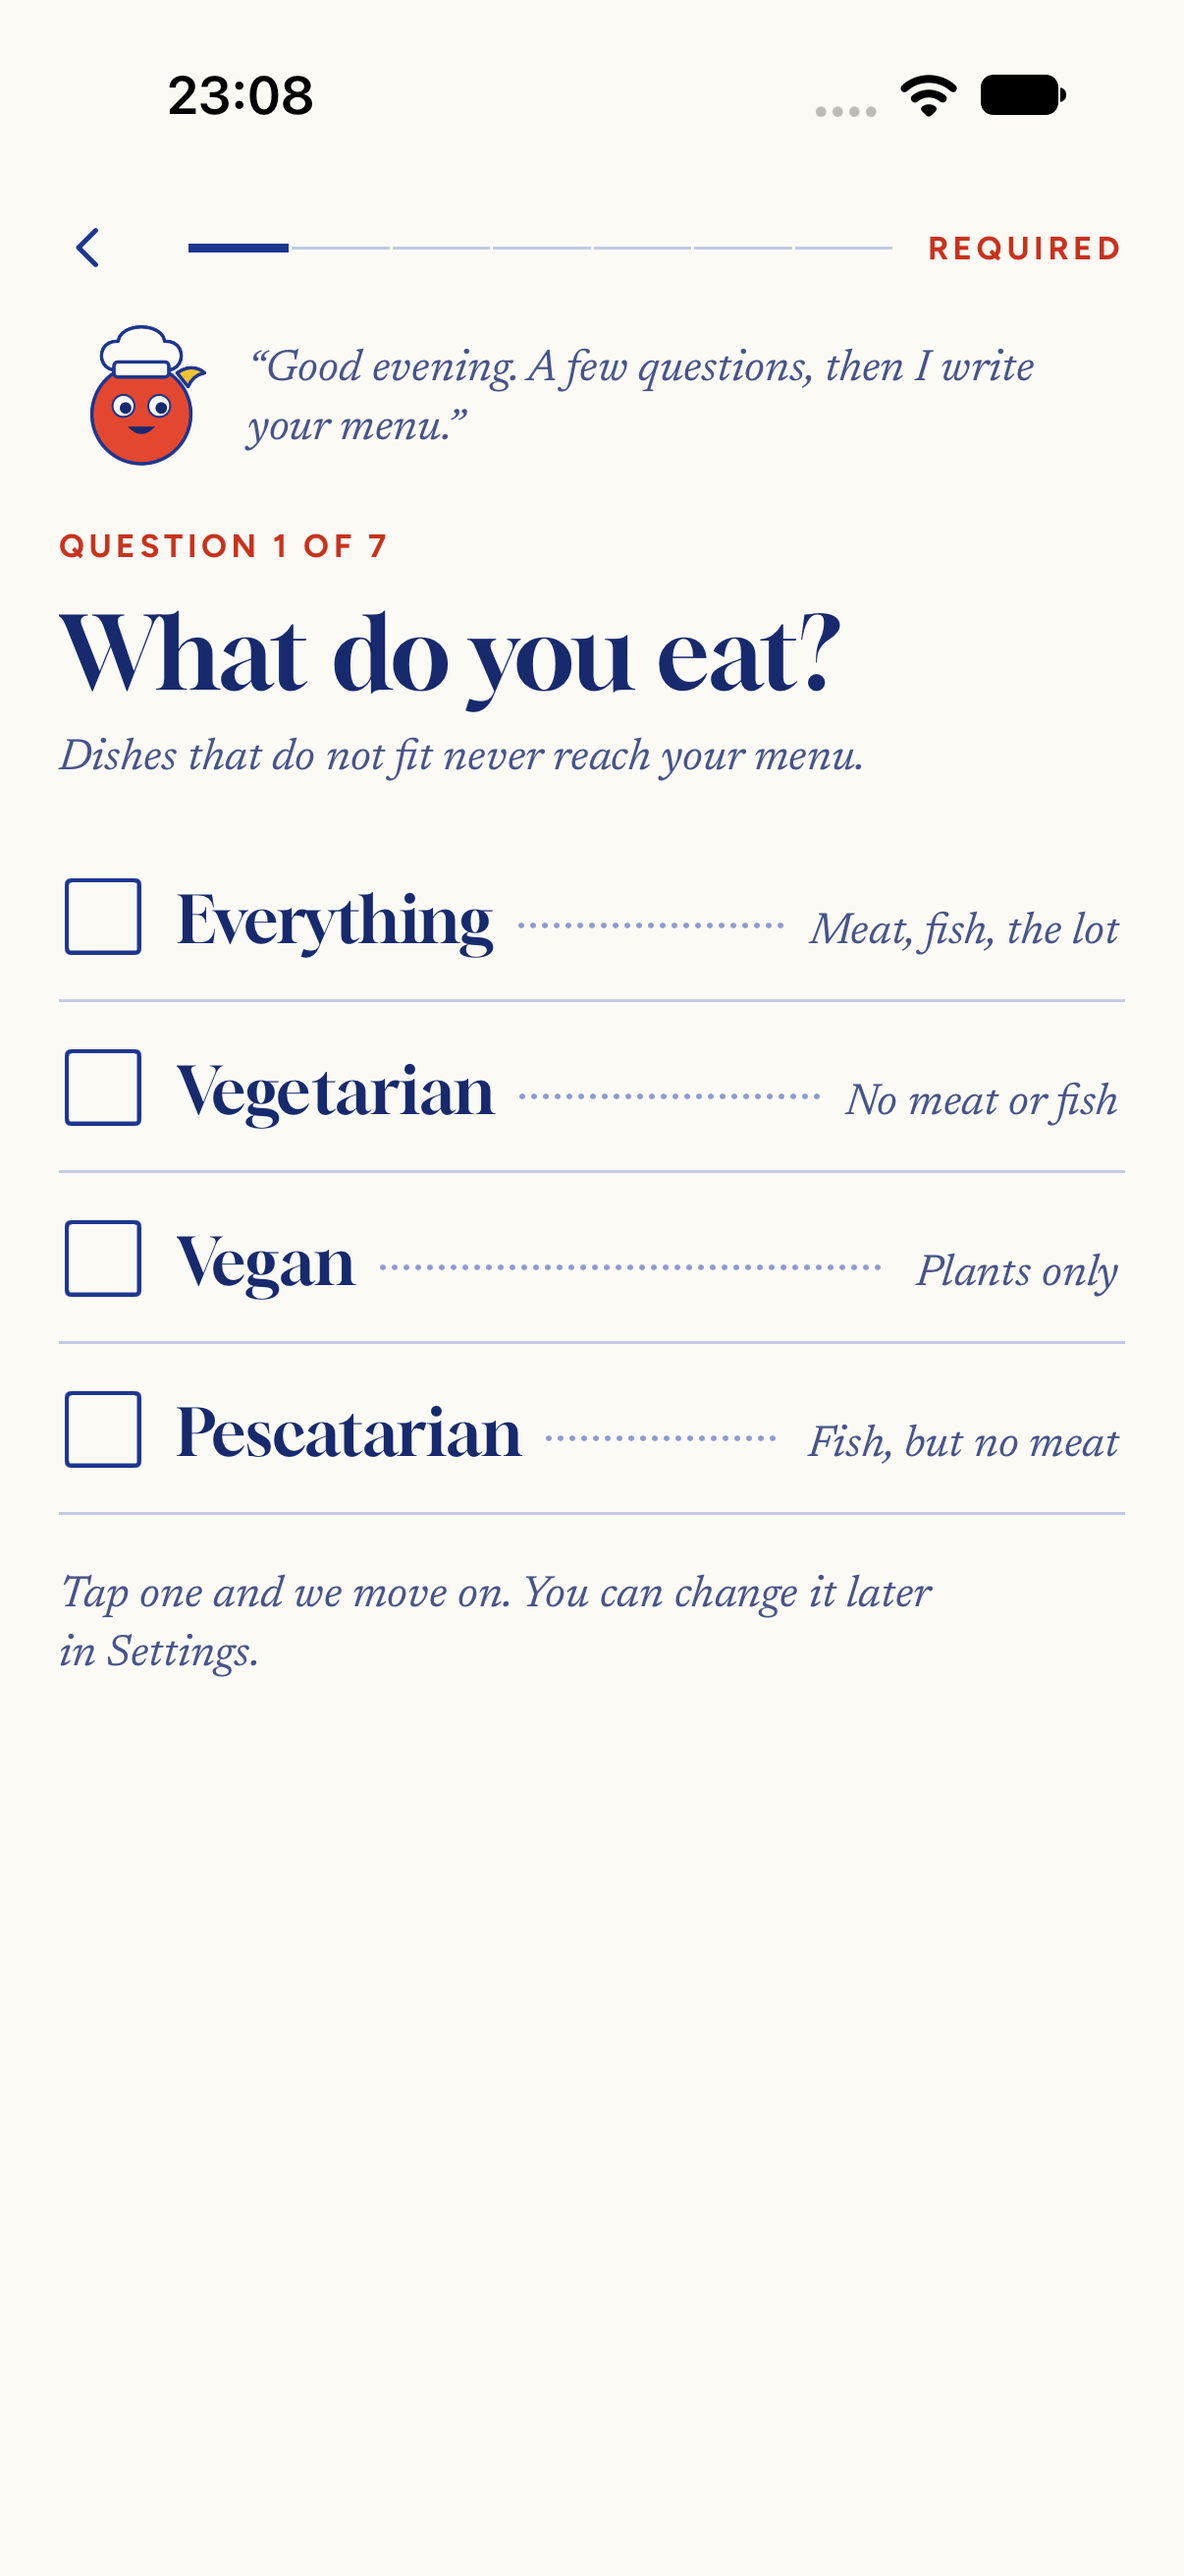
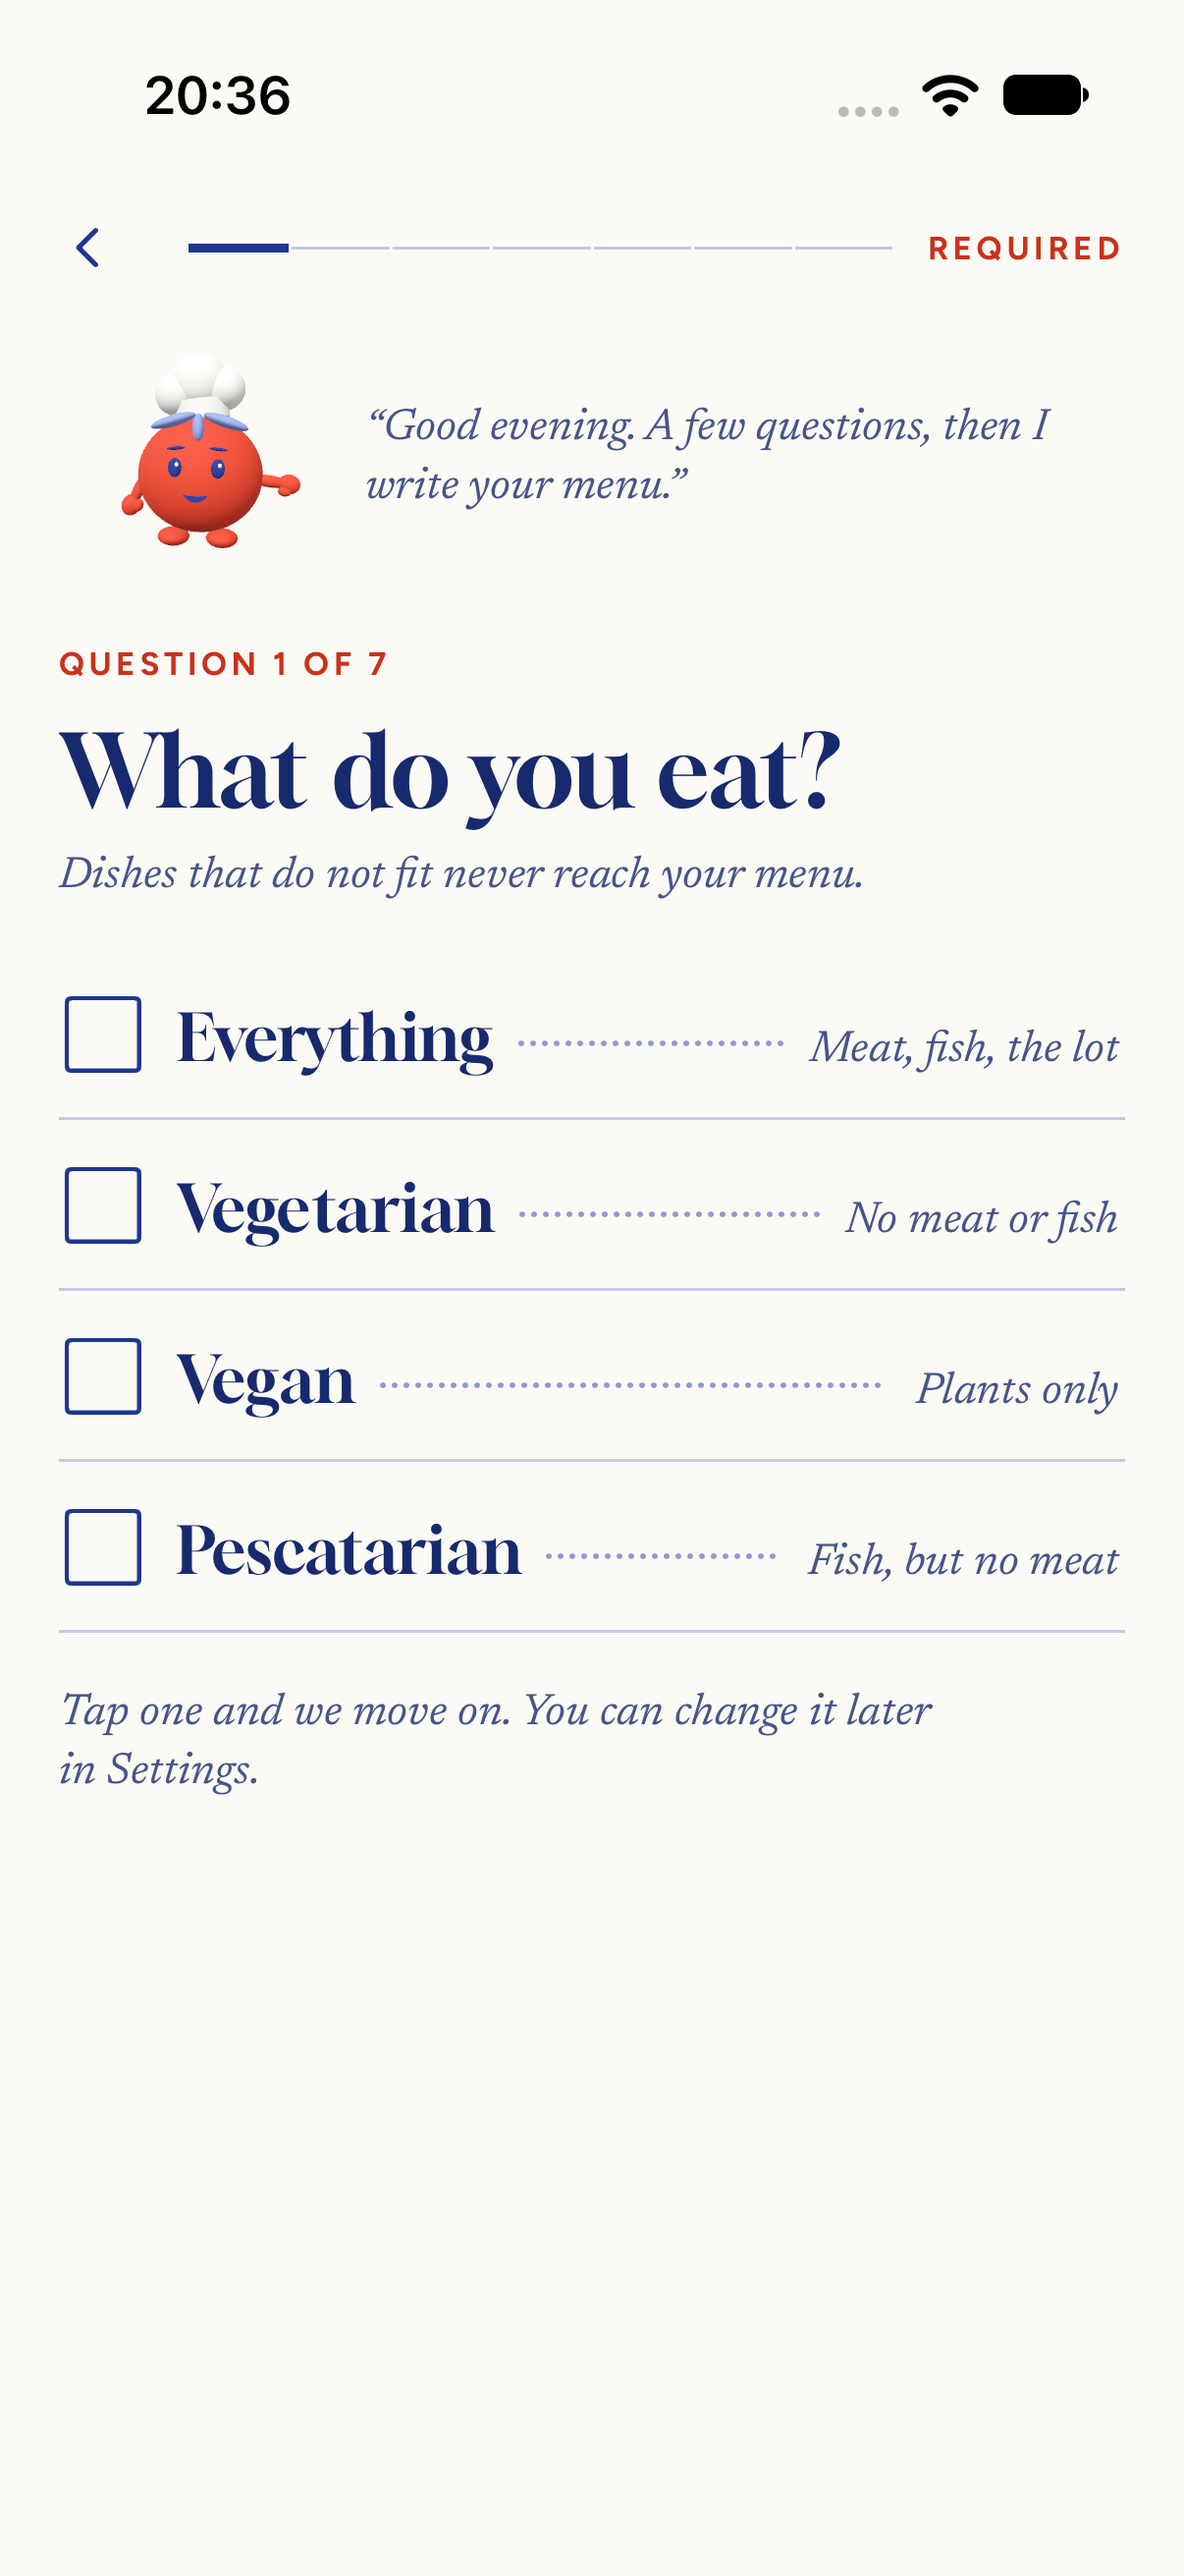
Show the 3D companion in onboarding (#15)
The welcome and the diet greeting drew the flat printed mascot. They now show
the animated companion: idle on the welcome, explaining beside the greeting.

One CompanionHost per flow draws it where a screen's CompanionSlot asks. A
second RealityView created as the first one goes away stayed blank for about
five seconds in the simulator, so the companion is kept alive between screens
instead of being created on every page.

The welcome text now scrolls, centred when it fits, so the larger companion
no longer cuts the title at the largest text size. Screenshots, AGENTS.md and
the companion notes are updated.

diff --git a/Tomi/DesignSystem/Companion/CompanionHost.swift b/Tomi/DesignSystem/Companion/CompanionHost.swift
@@ -1,0 +1,50 @@
+import SwiftUI
+
+/// Draws one companion at the place the current screen asked for, and keeps it alive between screens.
+/// A screen without a slot leaves it invisible instead of tearing it down: RealityKit takes seconds
+/// to show a companion that appears just as the last one goes away.
+struct CompanionHost: View {
+    let placement: CompanionPlacement?
+
+    var body: some View {
+        GeometryReader { proxy in
+            TomiCompanion(state: state)
+                .frame(width: rect(in: proxy).width, height: rect(in: proxy).height)
+                .offset(x: rect(in: proxy).minX, y: rect(in: proxy).minY)
+                .opacity(opacity)
+        }
+        .allowsHitTesting(false)
+    }
+
+    private var state: CompanionState {
+        placement?.state ?? .idle
+    }
+
+    private var opacity: Double {
+        guard placement != nil else { return 0 }
+        return 1
+    }
+
+    private func rect(in proxy: GeometryProxy) -> CGRect {
+        guard let placement else {
+            return CGRect(x: 0, y: 0, width: MascotSize.companionGreeting, height: MascotSize.companionGreeting)
+        }
+        return proxy[placement.bounds]
+    }
+}
+
+#Preview {
+    CompanionHost(placement: nil)
+}
+
+extension View {
+    /// Draws the companion where a `CompanionSlot` inside this view asks, clipped to this view.
+    func companionHost(identifier: String) -> some View {
+        overlayPreferenceValue(CompanionPlacementKey.self) { placement in
+            CompanionHost(placement: placement)
+                .clipped()
+                .accessibilityElement(children: .contain)
+                .accessibilityIdentifier(identifier)
+        }
+    }
+}

diff --git a/TomiUITests/OnboardingUITests.swift b/TomiUITests/OnboardingUITests.swift
@@ -26,4 +26,28 @@ final class OnboardingUITests: XCTestCase {
 
         XCTAssertTrue(app.staticTexts["onboarding-avoid-title"].waitForExistence(timeout: 5))
     }
+
+    @MainActor
+    func testTheWelcomeShowsTheRenderedCompanion() {
+        let app = XCUIApplication.launchedAsNewCook()
+
+        let companion = app.otherElements["onboarding-companion"]
+        XCTAssertTrue(companion.waitForExistence(timeout: 5))
+        XCTAssertTrue(companion.waitForTomato())
+    }
+
+    @MainActor
+    func testTheCompanionStaysAndMovesBesideTheDietGreeting() {
+        let app = XCUIApplication.launchedAsNewCook()
+        let companion = app.otherElements["onboarding-companion"]
+        XCTAssertTrue(companion.waitForTomato())
+        let welcomeSize = companion.frame.width
+
+        app.buttons["onboarding-start"].tap()
+
+        XCTAssertTrue(app.staticTexts["onboarding-diet-title"].waitForExistence(timeout: 5))
+        XCTAssertTrue(companion.waitForTomato())
+        XCTAssertLessThan(companion.frame.width, welcomeSize)
+        XCTAssertLessThan(companion.frame.maxY, app.staticTexts["onboarding-diet-title"].frame.minY)
+    }
 }

diff --git a/Tomi/Onboarding/OnboardingWelcomeText.swift b/Tomi/Onboarding/OnboardingWelcomeText.swift
@@ -1,12 +1,18 @@
 import SwiftUI
 
-/// The mascot, the kicker and the promise on the welcome screen.
+/// The companion, the kicker and the promise on the welcome screen.
 struct OnboardingWelcomeText: View {
     var body: some View {
+        ScrollView {
+            column
+        }
+        .defaultScrollAnchor(.center, for: .alignment)
+        .scrollBounceBehavior(.basedOnSize)
+    }
+
+    private var column: some View {
         VStack(spacing: Spacing.large) {
-            TomiMascot()
-                .frame(width: MascotSize.welcome, height: MascotSize.welcome)
-                .accessibilityHidden(true)
+            CompanionSlot(state: .idle, side: MascotSize.companionWelcome)
             Text(.welcomeKicker)
                 .textStyle(.label)
             Text(.onboardingWelcomeTitle)

diff --git a/Tomi/DesignSystem/Companion/CompanionSlot.swift b/Tomi/DesignSystem/Companion/CompanionSlot.swift
@@ -1,0 +1,22 @@
+import SwiftUI
+
+/// Empty room on a screen where the companion stands. The companion itself is drawn by one
+/// `CompanionHost` above the screens, so it is not created and destroyed on every page.
+struct CompanionSlot: View {
+    let state: CompanionState
+    let side: CGFloat
+
+    var body: some View {
+        Color.clear
+            .frame(width: side, height: side)
+            .anchorPreference(key: CompanionPlacementKey.self, value: .bounds) { bounds in
+                CompanionPlacement(bounds: bounds, state: state)
+            }
+            .accessibilityHidden(true)
+    }
+}
+
+#Preview {
+    CompanionSlot(state: .idle, side: MascotSize.companionWelcome)
+        .background(ColorRole.paper.color)
+}

diff --git a/Tomi/Onboarding/OnboardingFlow.swift b/Tomi/Onboarding/OnboardingFlow.swift
@@ -13,11 +13,9 @@ struct OnboardingFlow: View {
                 OnboardingHeader(completed: model.progressCompleted, back: model.back)
             }
             screen
+                .companionHost(identifier: "onboarding-companion")
             if model.couldNotSave {
-                Text(.onboardingSaveFailed)
-                    .textStyle(.description, color: .stampRed)
-                    .padding(Spacing.screenMargin)
-                    .accessibilityIdentifier("onboarding-save-failed")
+                OnboardingSaveFailed()
             }
         }
         .background(ColorRole.paper.color)

diff --git a/Tomi/DesignSystem/Companion/CompanionPlacement.swift b/Tomi/DesignSystem/Companion/CompanionPlacement.swift
@@ -1,0 +1,18 @@
+import SwiftUI
+
+/// Where a screen wants the companion and what it is doing there.
+struct CompanionPlacement {
+    let bounds: Anchor<CGRect>
+    let state: CompanionState
+}
+
+/// Carries the placement from a screen's `CompanionSlot` up to the `CompanionHost` that draws the companion.
+struct CompanionPlacementKey: PreferenceKey {
+    static var defaultValue: CompanionPlacement? { nil }
+
+    static func reduce(value: inout CompanionPlacement?, nextValue: () -> CompanionPlacement?) {
+        if let next = nextValue() {
+            value = next
+        }
+    }
+}

diff --git a/TomiUITests/XCUIElement+Tomato.swift b/TomiUITests/XCUIElement+Tomato.swift
@@ -1,0 +1,15 @@
+import XCTest
+
+extension XCUIElement {
+    /// Waits until the rendered tomato shows in this element. RealityKit draws its first frame a little
+    /// after the view appears, so a single screenshot straight after a tap proves nothing.
+    func waitForTomato(timeout: TimeInterval = 15) -> Bool {
+        let deadline = Date().addingTimeInterval(timeout)
+        while Date() < deadline {
+            if screenshot().tomatoCoverage > 0.015 {
+                return true
+            }
+        }
+        return false
+    }
+}

diff --git a/Tomi/DesignSystem/MascotSize.swift b/Tomi/DesignSystem/MascotSize.swift
@@ -5,6 +5,11 @@ nonisolated enum MascotSize {
     /// The interactive companion stage in the gallery.
     static let companion: CGFloat = 280
 
+    /// The animated companion on the welcome screen of onboarding.
+    static let companionWelcome: CGFloat = 200
+    /// The animated companion beside a line Tomi says, as on the diet question of onboarding.
+    static let companionGreeting: CGFloat = 96
+
     /// On the welcome screen.
     static let welcome: CGFloat = 164
     /// Beside a line Tomi says, as on the diet question of onboarding.

diff --git a/Tomi/Onboarding/TomiGreeting.swift b/Tomi/Onboarding/TomiGreeting.swift
@@ -6,9 +6,7 @@ struct TomiGreeting: View {
 
     var body: some View {
         HStack(spacing: Spacing.xSmall) {
-            TomiMascot()
-                .frame(width: MascotSize.greeting, height: MascotSize.greeting)
-                .accessibilityHidden(true)
+            CompanionSlot(state: .explaining, side: MascotSize.companionGreeting)
             Text(words)
                 .textStyle(.description)
                 .frame(maxWidth: .infinity, alignment: .leading)

diff --git a/Tomi/Onboarding/OnboardingSaveFailed.swift b/Tomi/Onboarding/OnboardingSaveFailed.swift
@@ -1,0 +1,15 @@
+import SwiftUI
+
+/// Tomi's words when the answers could not be saved.
+struct OnboardingSaveFailed: View {
+    var body: some View {
+        Text(.onboardingSaveFailed)
+            .textStyle(.description, color: .stampRed)
+            .padding(Spacing.screenMargin)
+            .accessibilityIdentifier("onboarding-save-failed")
+    }
+}
+
+#Preview {
+    OnboardingSaveFailed()
+}

diff --git a/Tomi/Onboarding/OnboardingWelcomeView.swift b/Tomi/Onboarding/OnboardingWelcomeView.swift
@@ -6,9 +6,7 @@ struct OnboardingWelcomeView: View {
 
     var body: some View {
         VStack(spacing: Spacing.large) {
-            Spacer()
             OnboardingWelcomeText()
-            Spacer()
             Text(.onboardingWelcomeHint)
                 .textStyle(.description)
             Button(action: start) {

diff --git a/docs/implementation-plan.md b/docs/implementation-plan.md
@@ -19,7 +19,7 @@ A native iPhone app where a cook answers a short onboarding, shows Tomi their fr
 | Everyday AI | Apple Foundation Models on the phone: ingredient spotting, ranking and adapting lessons, Ask Tomi, voice commands. Available in the iOS 27 simulator on the development Mac |
 | Curriculum | Classical French technique and its kitchen words (mirepoix, roux, deglaze, monter au beurre, beurre blanc), without presenting the app as "French cooking". Twelve techniques in four courses (Foundations, Heat control, Sauces, Putting it together), each with levels |
 | Lessons | Written in bulk by a top Claude model into a reviewed library. One file per lesson. Never generated live in version 1 |
-| Tomi and step scenes | Printed mascot and step scenes stay code-drawn in SwiftUI. A separate native RealityKit tomato chef, built from shared geometry with no downloaded model, supplies idle, listening, thinking, explaining and celebrating states for future conversations (#94). Callers supply the state; the companion opens no microphone or AI session |
+| Tomi and step scenes | Printed mascot and step scenes stay code-drawn in SwiftUI. A separate native RealityKit tomato chef, built from shared geometry with no downloaded model, supplies idle, listening, thinking, explaining and celebrating states for conversations and for onboarding (#94, #15). Callers supply the state; the companion opens no microphone or AI session |
 | Onboarding | Nine screens: welcome, diet, things to avoid, cuisines, kitchen, experience and weekly goal, table and units, camera primer, done. Notifications are asked at the first timer, the cupboard at the first scan |
 | Cuisines | Love, happy to try, or never, from day one. "Never" hides those dishes, including alternatives. Cuisines never gate skills. More arrive later as "guest menus" |
 | Pantry | Saved cupboard staples, switchable per evening, plus typing anything the photo missed |
@@ -86,6 +86,8 @@ The debug gallery also opens the animated 3D companion (#94). `TomiCompanion` ac
 `CompanionState`, a side-view choice and an optional Reduce Motion override. Its RealityKit rig
 uses elapsed render time, pauses when hidden or inactive, and shows distinct still poses when
 Reduce Motion is enabled. The printed mascot and its remaining mood work (#11) stay separate.
+Onboarding uses it too: the welcome shows it idle and the diet question explaining, through one
+`CompanionHost` per flow and a `CompanionSlot` on each screen (#15).
 See [the companion handoff](design/companion.md) for the forms, motion and inspection steps.
 
 ### From fridge photo to tonight's special
